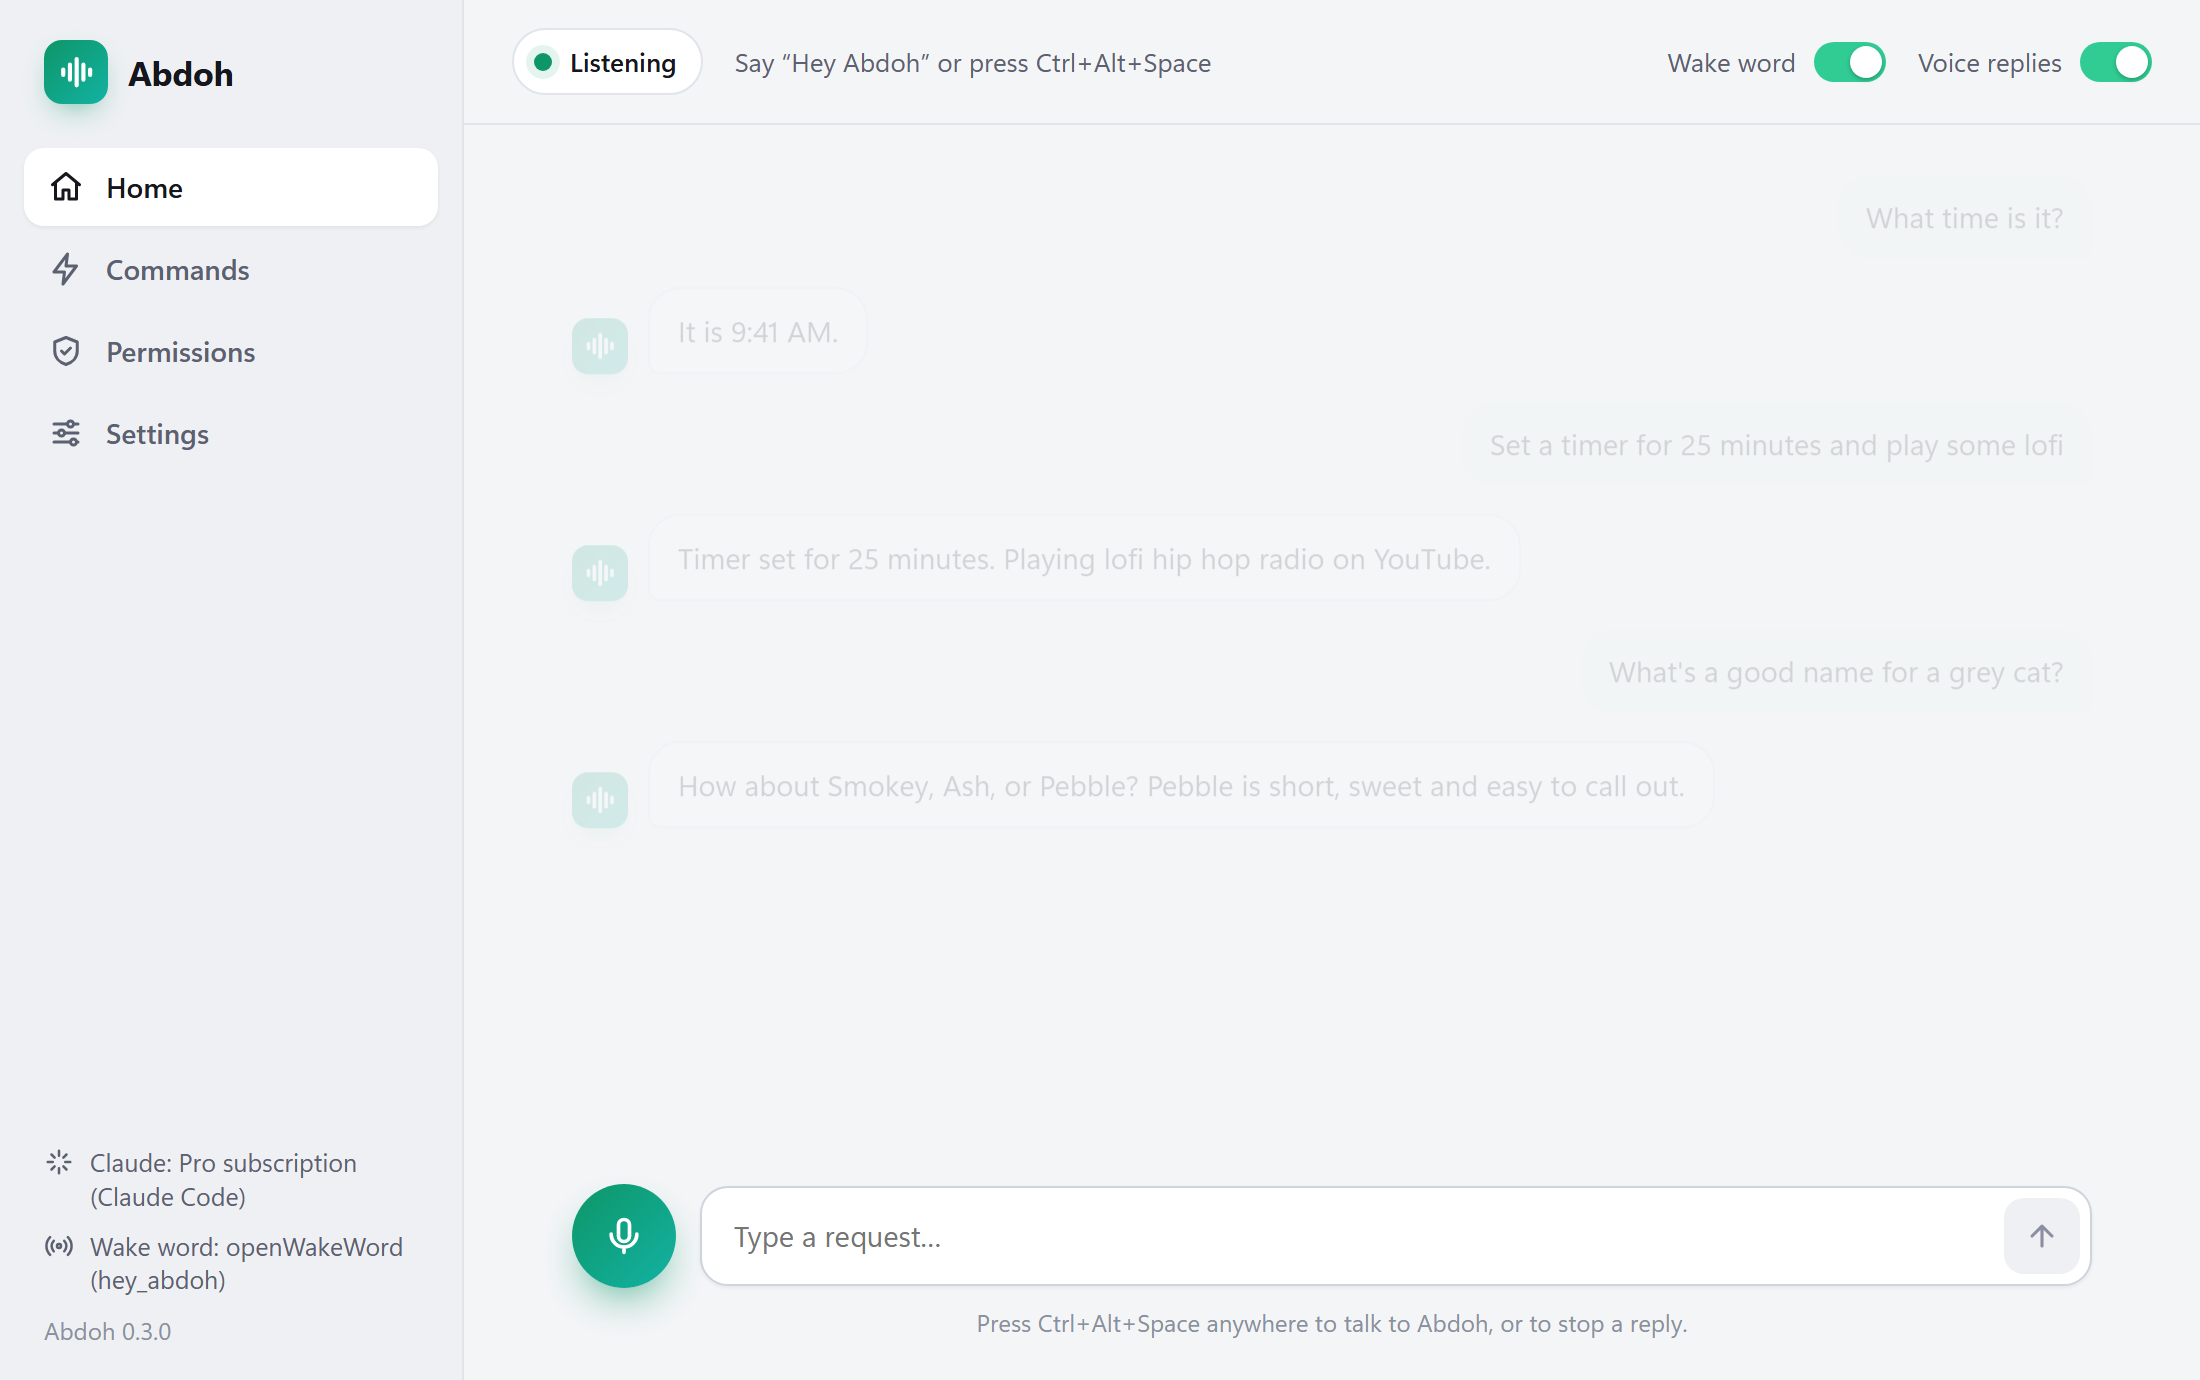
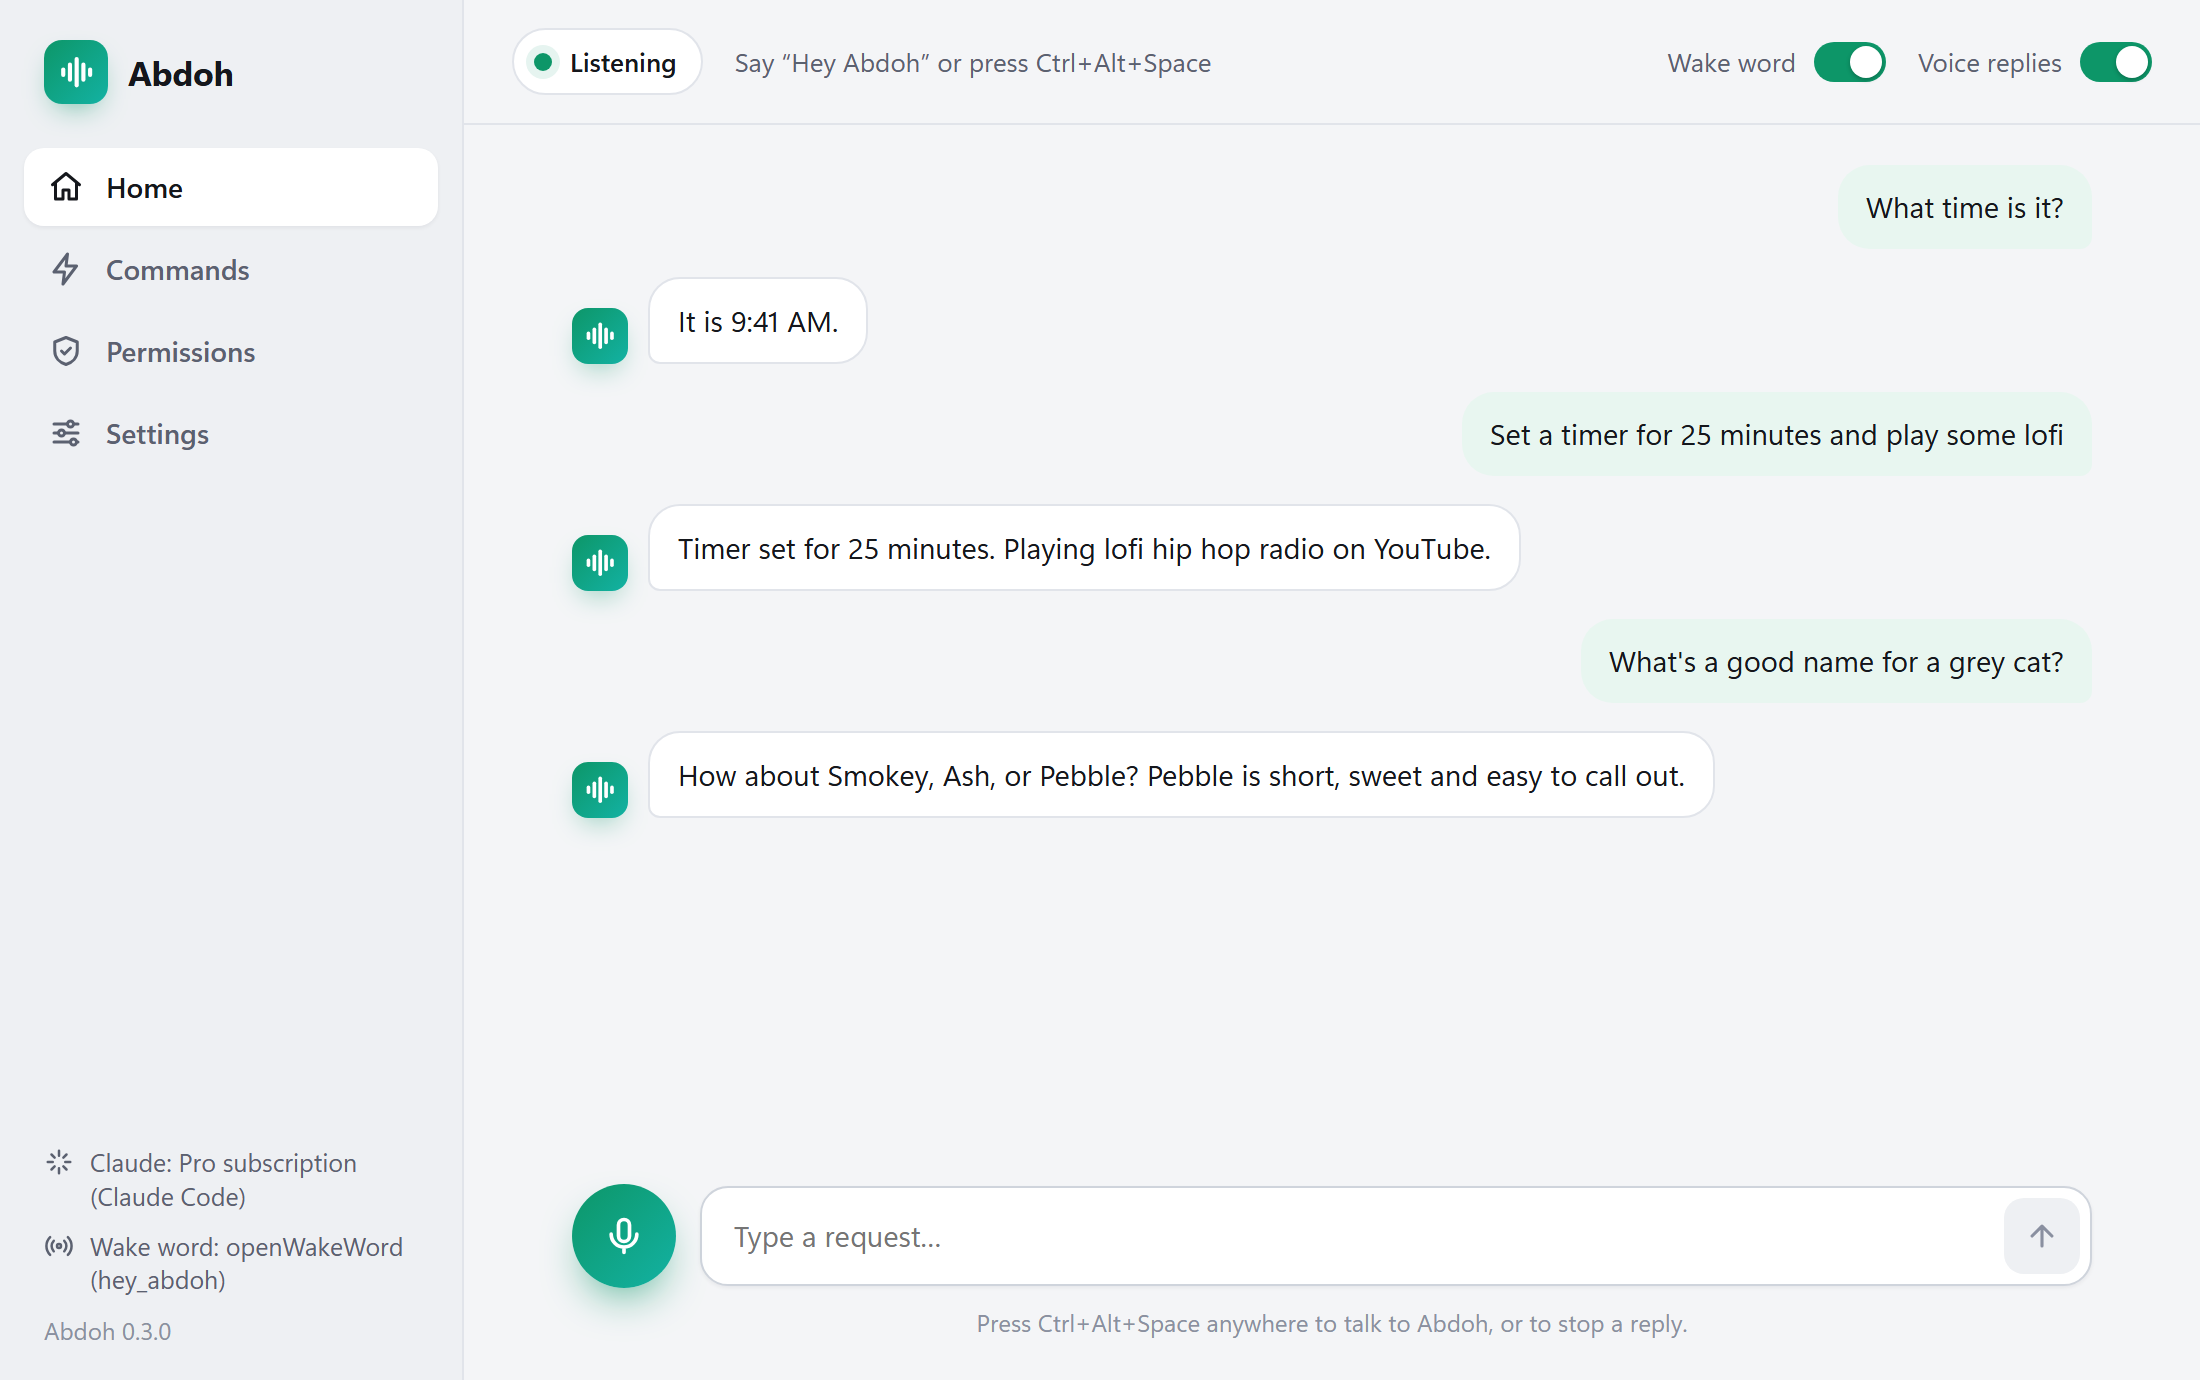
fix: download page screenshots caught the messages mid fade-in
take_screenshots.py now asks Edge for reduced motion, which turns Abdoh's animations off, so the conversation in the screenshots is fully visible.

diff --git a/scripts/take_screenshots.py b/scripts/take_screenshots.py
@@ -36,6 +36,8 @@ def main() -> int:
                 url = f"{PAGE.as_uri()}?demo&page={page}&theme={theme}"
                 subprocess.run(
                     [edge, "--headless=new", "--disable-gpu", "--hide-scrollbars", "--no-first-run",
+                     # no fade-in animations: the shot would catch the messages half-visible
+                     "--force-prefers-reduced-motion",
                      f"--user-data-dir={profile}", "--force-device-scale-factor=2",
                      "--window-size=1100,690", "--virtual-time-budget=4000",
                      f"--screenshot={out}", url],
